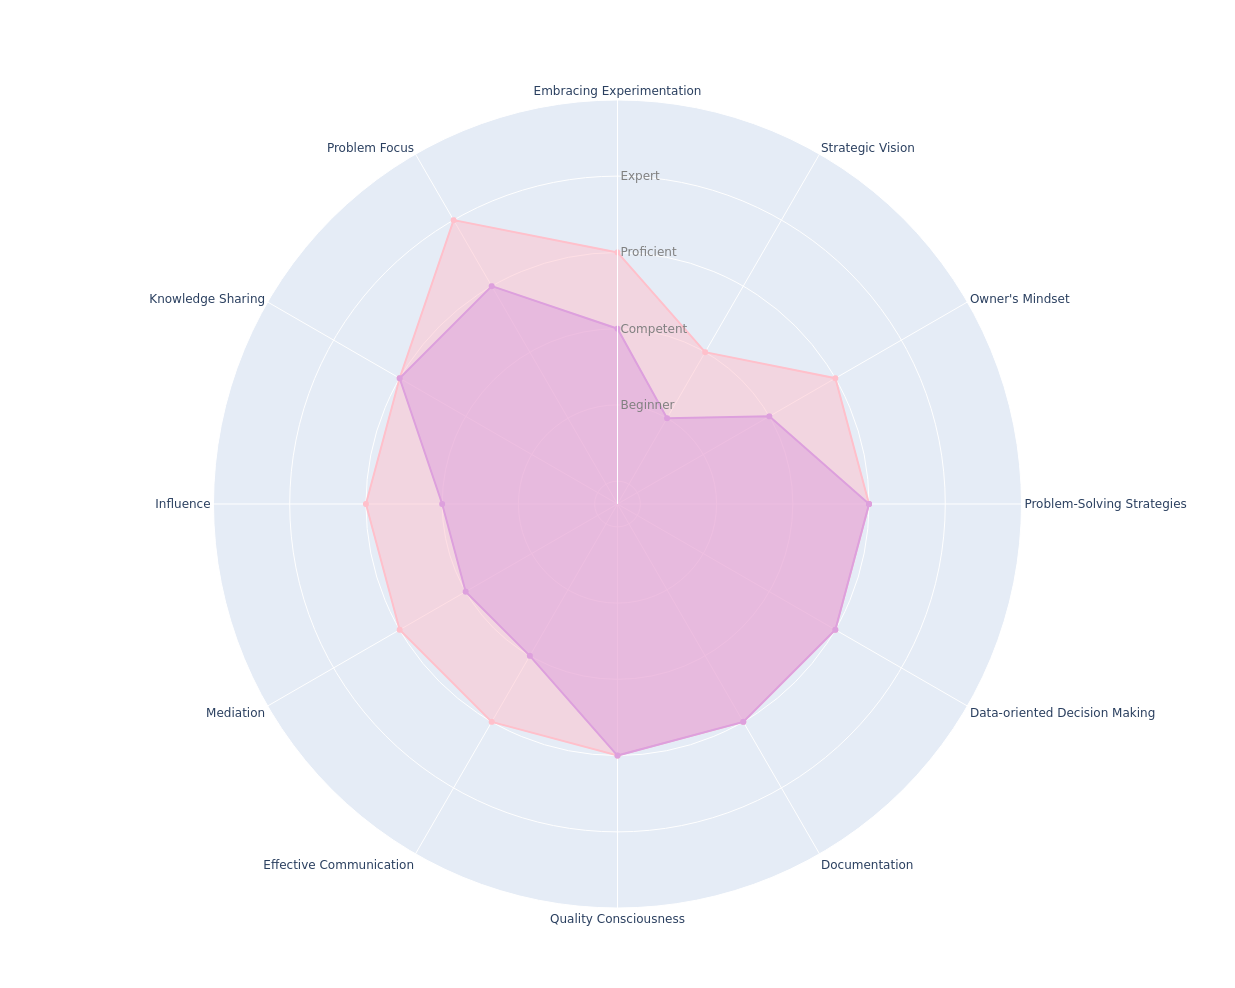
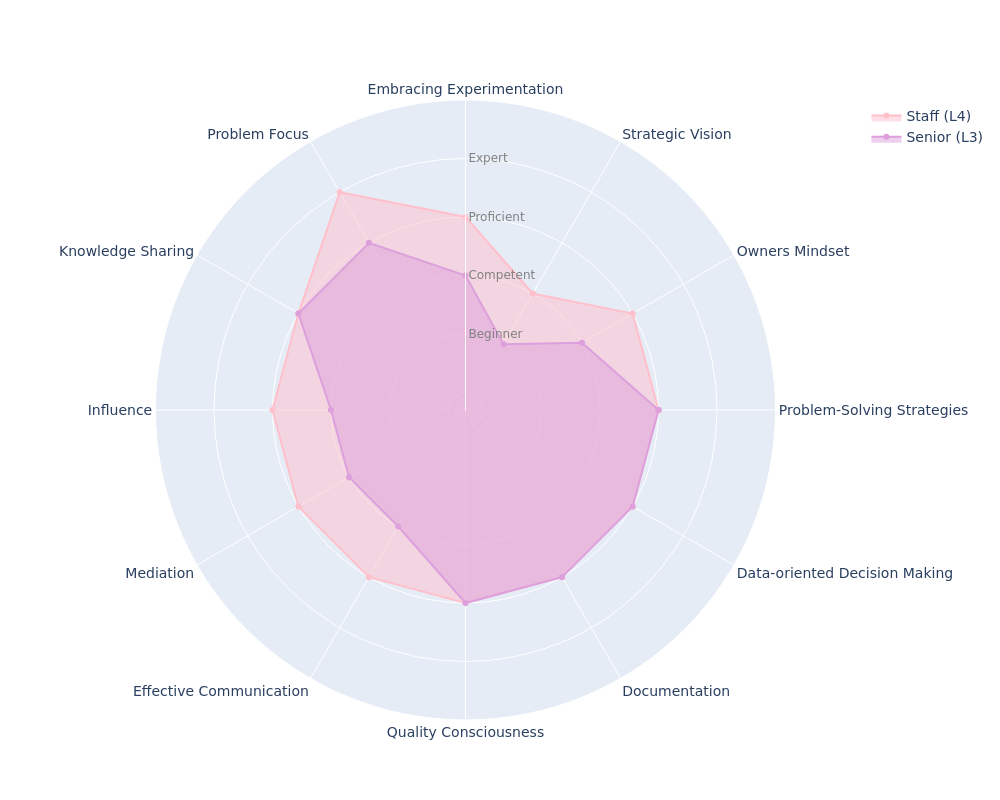
feat: increase radar charts readability

diff --git a/radar-charts/radar.py b/radar-charts/radar.py
@@ -46,7 +46,10 @@ def add_trace(fig, level_data, color):
         fill='toself',
         line=dict(color=color, width=2),
         connectgaps=True,
+        name=level_data["Level"],
     ))
+
+    fig.update_layout(font=dict(size=14))
 
 
 def main():
@@ -67,9 +70,11 @@ def main():
         plot_bgcolor='rgba(0,0,0,0)'
     ))
 
+    has_legend = False
     add_trace(fig, level_data, 'pink')
     if args.compare_to != None:
         add_trace(fig, compare_to_data, 'plum')
+        has_legend = True
 
     fig.update_layout(
         polar=dict(
@@ -83,9 +88,9 @@ def main():
                 tickangle=90,  # so that tick labels are not upside down
             )
         ),
-        showlegend=False,
-        width=1235,
-        height=988
+        showlegend=has_legend,
+        width=1000,
+        height=800
     )
 
     # fig.show()
